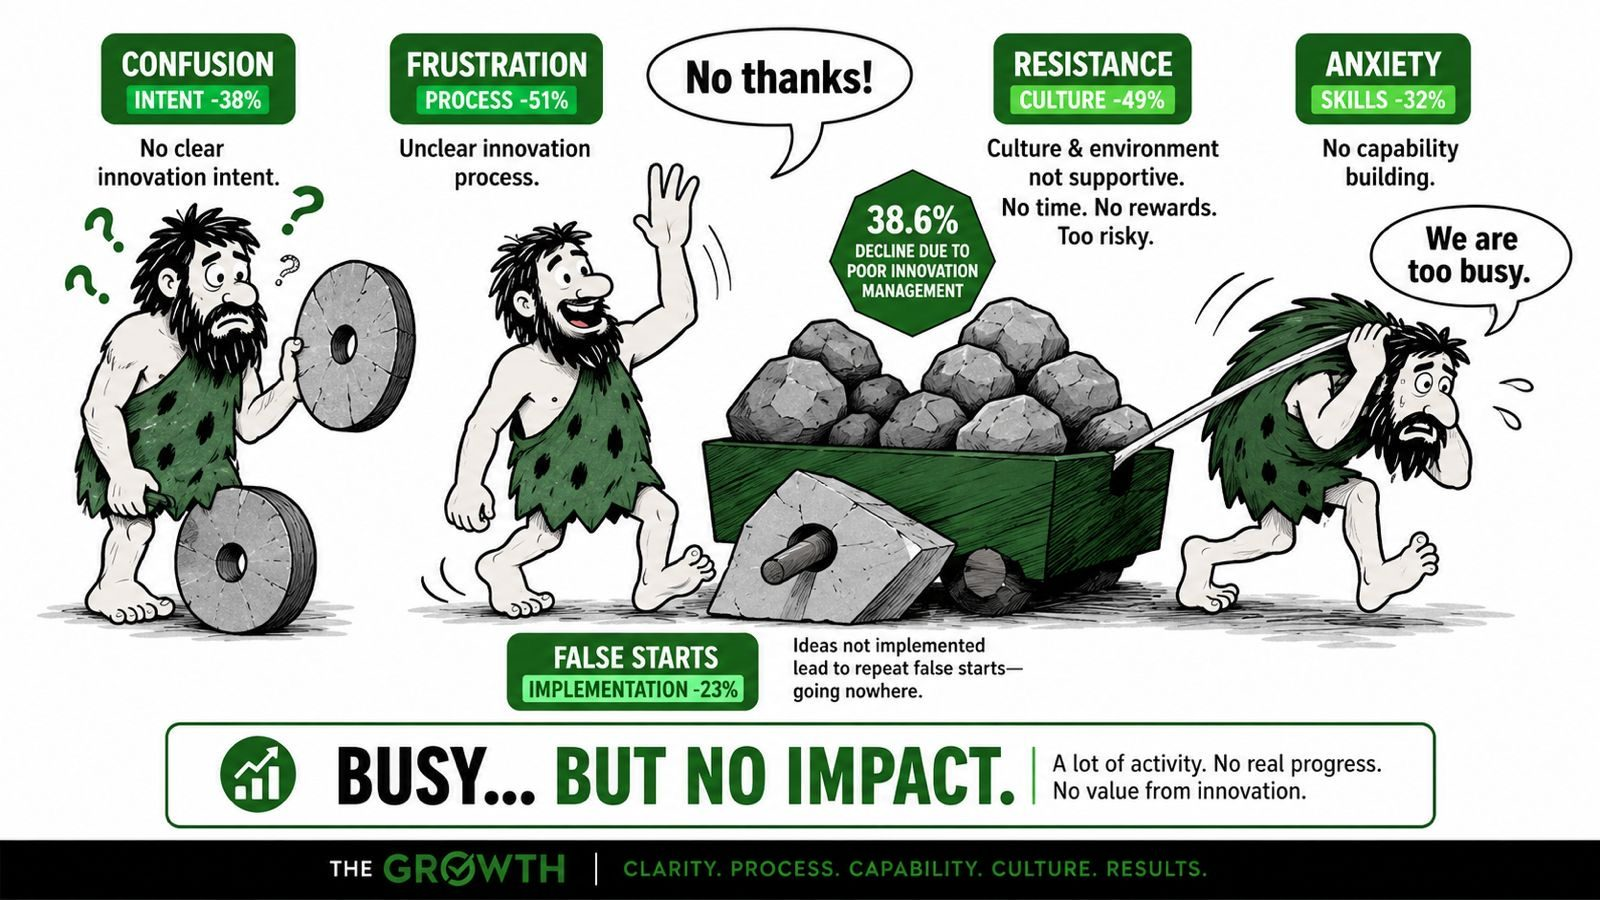
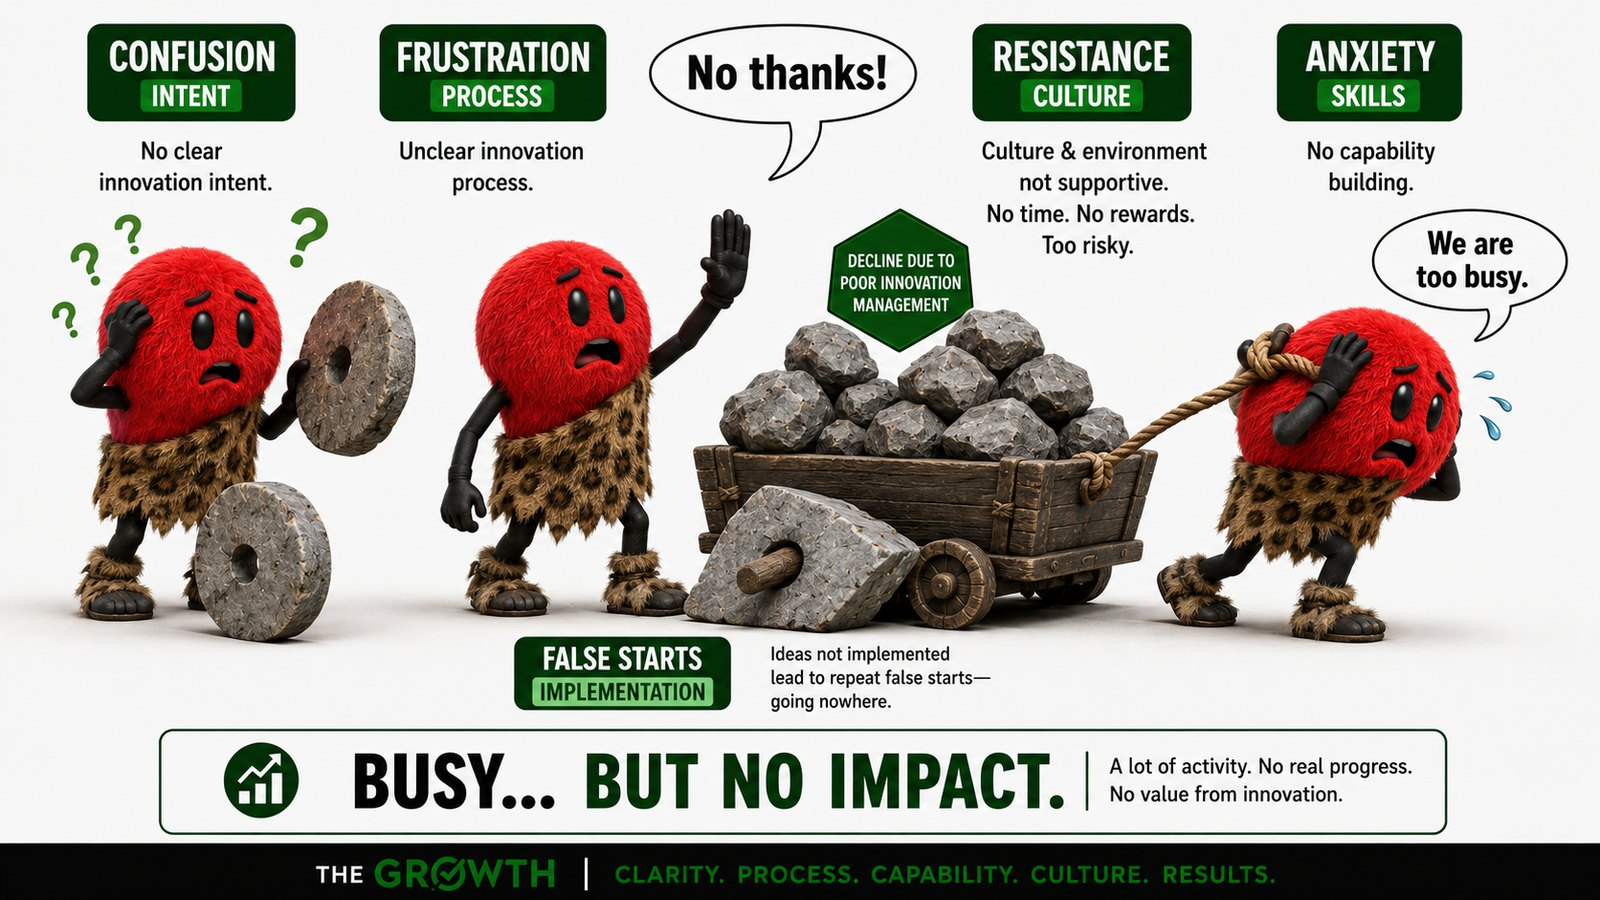
Assessment page: site-redesign shell, Oxy methodology graphic, local video player, always land on hero

diff --git a/public.html b/public.html
@@ -2,7 +2,7 @@
 <meta charset="UTF-8">
   <!-- Shared config: provides window.INNOPULSE_CONFIG (Supabase URL + publishable key) for parallel mirroring -->
   <script src="360-config.js"></script>
-<meta name="viewport" content="width=device-width, initial-scale=1.0"><link rel="preconnect" href="https://www.googletagmanager.com"><link rel="preconnect" href="https://www.youtube.com"><link rel="preconnect" href="https://i.ytimg.com">
+<meta name="viewport" content="width=device-width, initial-scale=1.0"><link rel="preconnect" href="https://www.googletagmanager.com">
 <link rel="preconnect" href="https://fonts.googleapis.com"><link rel="preconnect" href="https://fonts.gstatic.com" crossorigin=""><link href="https://fonts.googleapis.com/css2?family=Instrument+Sans:wght@400;500;600&amp;display=swap" rel="stylesheet"><title>Innovation Capability Assessment (InnoPulse) | The Growth System</title>
   <meta name="description" content="InnoPulse by The Growth System is a free innovation capability assessment measuring your organisation's innovation maturity across five pillars. Get a personalised report and benchmark your innovation performance.">
   <meta name="robots" content="index, follow, max-image-preview:large, max-snippet:-1, max-video-preview:-1">
@@ -18,7 +18,7 @@
   <meta name="twitter:card" content="summary_large_image">
   <meta name="twitter:title" content="Innovation Capability Assessment (InnoPulse) | The Growth System">
   <meta name="twitter:description" content="Measure your organisation's innovation maturity across five pillars with InnoPulse from The Growth System."><meta name="twitter:image" content="https://innopulse.thegrowthsystem.co.za/logo.png">
-  <meta name="theme-color" content="#1c2400"><link rel="icon" type="image/png" href="/logo.png"><link rel="apple-touch-icon" href="/logo.png"><link rel="manifest" href="/site.webmanifest">
+  <meta name="theme-color" content="#1c2400"><link rel="icon" type="image/png" href="logo.png"><link rel="apple-touch-icon" href="logo.png"><link rel="manifest" href="site.webmanifest">
   <script type="application/ld+json">
     {
       "@context": "https://schema.org",
@@ -79,7 +79,7 @@
       ]
     }
   </script>
-<link rel="preload" href="/styles.css" as="style"><link rel="preload" href="/logo.svg" as="image"><link rel="stylesheet" href="/styles.css">
+<link rel="preload" href="styles.css" as="style"><link rel="preload" href="logo.svg" as="image"><link rel="stylesheet" href="styles.css">
 <!-- Funnel analytics (optional): to enable GA4 event tracking, set CONFIG.analyticsId
      in the script below to your GA4 Measurement ID (e.g. "G-XXXXXXXXXX") and
      uncomment the two tags below. trackEvent() will then forward hero/intake/
@@ -89,8 +89,26 @@
 
       <link rel="stylesheet" href="assets/public-a11y.css">
       <script src="assets/public-a11y.js" defer=""></script>
+      <link href="https://fonts.googleapis.com/css2?family=Bricolage+Grotesque:opsz,wght@12..96,500;12..96,650;12..96,750;12..96,800&amp;family=IBM+Plex+Mono:wght@500;600&amp;family=Manrope:wght@400;500;600;700;800&amp;display=swap" rel="stylesheet">
+      <link rel="stylesheet" href="assets/site.css?v=20260702-signal">
+      <script src="assets/site.js?v=20260702-signal" defer=""></script>
     </head>
-<body class="route-public" data-route="public"><a class="assessment-skip" href="#main-content">Skip to assessment</a><main id="main-content"><div class="app" id="app"></div></main><div id="report" class="hide"></div><script>
+<body class="route-public site-redesign" data-route="public"><a class="assessment-skip" href="#main-content">Skip to assessment</a>
+      <div class="living-pulse-rail" aria-hidden="true">
+        <span class="rail-dot"></span>
+        <svg viewBox="0 0 20 220" preserveAspectRatio="none">
+          <path d="M10 0v66l-6 9 12 12-12 15 12 13-6 10v75"></path>
+        </svg>
+        <span class="rail-label">INNOVATION SIGNAL</span>
+      </div>
+    <header class="nav"><div class="row"><a class="brand" href="index.html"><img src="assets/logo.svg" alt="The Growth System logo" width="64" height="38"><span><b>Inno<i>Pulse</i></b><span>by The Growth System</span></span></a><ul class="menu" id="primary-menu"><li><a href="index.html">Home</a></li><li><a href="360.html">InnoPulse 360</a></li><li><a href="services.html">Services</a></li></ul><div class="navcta" id="nav-actions"><a class="btn btn-ghost btn-sm" href="public.html" aria-current="page">Start free check</a><a class="btn btn-navy btn-sm" href="book.html">Book a consultation</a></div>
+      <button class="menu-toggle" type="button" aria-expanded="false" aria-controls="primary-menu nav-actions">
+        <span>Menu</span>
+        <svg viewBox="0 0 24 18" aria-hidden="true" focusable="false">
+          <path d="M1 2h22M1 9h22M1 16h22"></path>
+        </svg>
+      </button>
+    </div></header><main id="main-content"><div class="app" id="app"></div></main><div id="report" class="hide"></div><script>
 const PILLARS = [
   {
     "id": "sii",
@@ -531,6 +549,17 @@ const totalQ = PILLARS.reduce((s,p)=>s+p.questions.length,0); // 62
    ============================================================ */
 let state = loadState();
 let SAVED = loadSaved();
+
+/* Always land visitors on the hero screen. Saved mid-flow progress
+   (intake/quiz/preview) is kept and offered as a "Continue" option
+   instead of auto-resuming past the landing page. Completed
+   assessments still open on the dashboard. */
+const RESUME = {
+  view: state.view,
+  inProgress: (state.view==='intake'||state.view==='quiz'||state.view==='preview') &&
+              (Object.keys(state.answers||{}).length>0 || (state.step||0)>0 || Object.keys(state.profile||{}).length>0)
+};
+if(state.view!=='dashboard' && state.view!=='hero'){ state.view='hero'; }
 
 function defaultState(){
   return {
@@ -1236,16 +1265,9 @@ function pillarIconHTML(pillarId){
 const $app = ()=>document.getElementById('app');
 
 function topbarHTML(){
-  return `<div class="topbar">
-    <div class="brandmark">
-      <div class="logo"><img src="/logo.svg" alt="The Growth System logo" width="30" height="30" decoding="async" style="display:block;width:30px;height:auto"></div>
-      <div>
-        <div class="name">${CONFIG.product} <span style="color:var(--lime2)">Check</span></div>
-        <div class="sub">by ${CONFIG.brand}</div>
-      </div>
-    </div>
-    <div class="toppill">${CONFIG.productFull}</div>
-  </div>`;
+  // The shared site-redesign header now renders above the app shell,
+  // so the per-screen topbar is retired.
+  return ``;
 }
 
 function render(){
@@ -1278,18 +1300,29 @@ function renderHero(){
       <span class="trust-item"><svg viewBox="0 0 24 24" fill="none" stroke="currentColor" stroke-width="2"><rect x="3" y="11" width="18" height="10" rx="2"/><path d="M7 11 V7 a5 5 0 0 1 10 0 v4"/></svg> Your answers stay private</span>
     </div>
     <div style="margin-top:18px">
-      <button class="btn btn-primary" data-begin>Begin My InnoPulse Check →</button>
+      <button class="btn btn-primary" data-begin>${RESUME.inProgress ? 'Continue where you left off →' : 'Begin My InnoPulse Check →'}</button>
+      ${RESUME.inProgress ? '<div style="margin-top:10px"><button class="btn-link" data-start-fresh style="background:none;border:none;color:var(--lime2);font-weight:700;cursor:pointer;text-decoration:underline">Start over from the beginning</button></div>' : ''}
     </div>
     <p class="small muted" style="margin-top:14px">${CONFIG.narrative}</p>
   </div>
 
-  <div class="footer"><img src="/logo.svg" alt="The Growth System logo" width="40" height="40" decoding="async" style="display:block;width:40px;height:auto;margin:0 auto 12px">${CONFIG.brand} · ${CONFIG.productFull}</div>
+  <div class="footer"><img src="logo.svg" alt="The Growth System logo" width="40" height="40" decoding="async" style="display:block;width:40px;height:auto;margin:0 auto 12px">${CONFIG.brand} · ${CONFIG.productFull}</div>
   ${videoModalHTML()}`;
 }
 function attachHero(){
   trackEvent('hero_view');
   document.querySelectorAll('[data-begin]').forEach(btn=>{
-    btn.addEventListener('click', ()=>{ trackEvent('intake_start'); state.view='intake'; save(); render(); });
+    btn.addEventListener('click', ()=>{
+      if(RESUME.inProgress){ trackEvent('assessment_resume'); state.view=RESUME.view; }
+      else { trackEvent('intake_start'); state.view='intake'; }
+      save(); render();
+    });
+  });
+  const fresh = document.querySelector('[data-start-fresh]');
+  if(fresh) fresh.addEventListener('click', ()=>{
+    RESUME.inProgress = false; RESUME.view = 'hero';
+    state = defaultState(); state.view='intake';
+    trackEvent('intake_start'); save(); render();
   });
   attachMethodology();
 }
@@ -1390,14 +1423,15 @@ function methodologySectionHTML(){
     <div style="max-width:640px;margin:0 auto">
       <div class="eyebrow">Before You Begin</div>
       <h2 class="hero-title" style="font-size:clamp(22px,3.2vw,30px)">Understand the Innovation System</h2>
-      <p class="tagline center" style="margin:0 auto 18px">Why innovation efforts stall — and the framework behind this assessment. Click to watch a 2-minute overview.</p>
+      <p class="tagline center" style="margin:0 auto 18px">Why innovation efforts stall — and the framework behind this assessment. Watch the 2-minute overview below.</p>
       <div class="meth-media">
-        <div class="meth-img-wrap" data-meth-open tabindex="0" role="button" aria-label="Watch the methodology overview video">
-          <img class="meth-img" loading="lazy" decoding="async" src="innovation-methodology.jpg" alt="Illustration of common innovation barriers — confusion, frustration, resistance, anxiety and false starts — leading to busy teams with no impact, alongside The Growth System's Clarity, Process, Capability, Culture, Results methodology.">
-          <span class="meth-video-icon" aria-hidden="true">${playIconSVG()}</span>
-        </div>
-        <div class="meth-watch-label" data-meth-open tabindex="0" role="button" aria-label="Watch the methodology overview video">
-          ${playIconSVG()} Watch Methodology Overview
+        <div class="meth-img-wrap" style="cursor:default">
+          <video class="meth-img" controls preload="metadata" playsinline data-meth-video
+            poster="innovation-methodology.jpg"
+            aria-label="Methodology overview video">
+            <source src="assets/methodology-overview.mp4" type="video/mp4">
+            Your browser can&rsquo;t play this video. <a href="assets/methodology-overview.mp4">Download it instead</a>.
+          </video>
         </div>
       </div>
       <div class="meth-journey">
@@ -1407,73 +1441,34 @@ function methodologySectionHTML(){
   </div>`;
 }
 function videoModalHTML(){
-  return `<div class="modal-bg hide" data-meth-modal-bg>
-    <div class="modal meth-modal" role="dialog" aria-modal="true" aria-label="Methodology overview video">
-      <button class="close" data-meth-close aria-label="Close video">×</button>
-      <div class="meth-video-frame" data-meth-video-frame></div>
-    </div>
-  </div>`;
-}
-let _methScrollY = 0;
-let _methLastFocus = null;
-function _methKeydown(e){
-  const bg = document.querySelector('[data-meth-modal-bg]');
-  if(!bg || bg.classList.contains('hide')) return;
-  if(e.key === 'Escape'){ e.preventDefault(); closeMethodologyVideo(); return; }
-  if(e.key === 'Tab'){
-    const focusable = bg.querySelectorAll('button, [href], input, select, textarea, [tabindex]:not([tabindex="-1"])');
-    if(!focusable.length) return;
-    const first = focusable[0], last = focusable[focusable.length-1];
-    if(e.shiftKey && document.activeElement === first){ e.preventDefault(); last.focus(); }
-    else if(!e.shiftKey && document.activeElement === last){ e.preventDefault(); first.focus(); }
-  }
-}
-function openMethodologyVideo(){
-  const bg = document.querySelector('[data-meth-modal-bg]');
-  const frame = document.querySelector('[data-meth-video-frame]');
-  const closeBtn = document.querySelector('[data-meth-close]');
-  if(!bg || !frame) return;
-  trackEvent('methodology_video_open');
-  _methScrollY = window.scrollY;
-  _methLastFocus = document.activeElement;
-  frame.innerHTML = `<iframe loading="lazy" src="https://www.youtube-nocookie.com/embed/6EYP4k5iNkQ?rel=0" title="InnoPulse Methodology Overview" allow="accelerometer; clipboard-write; encrypted-media; gyroscope; picture-in-picture" allowfullscreen></iframe>`;
-  bg.classList.remove('hide');
-  document.body.style.overflow = 'hidden';
-  document.addEventListener('keydown', _methKeydown);
-  if(closeBtn) closeBtn.focus();
-}
-function closeMethodologyVideo(){
-  const bg = document.querySelector('[data-meth-modal-bg]');
-  const frame = document.querySelector('[data-meth-video-frame]');
-  if(!bg) return;
-  bg.classList.add('hide');
-  if(frame) frame.innerHTML = '';
-  document.body.style.overflow = '';
-  document.removeEventListener('keydown', _methKeydown);
-  trackEvent('methodology_video_close');
-  // restore exactly where the visitor was, then nudge them toward the next step
-  window.scrollTo({top:_methScrollY, behavior:'auto'});
-  if(_methLastFocus && typeof _methLastFocus.focus === 'function') _methLastFocus.focus();
-  _methLastFocus = null;
-  const cta = document.querySelector('[data-begin]');
-  if(cta){
-    cta.classList.add('pulse');
-    setTimeout(()=>cta.classList.remove('pulse'), 1600);
-  }
+  // The methodology video now plays inline with a local <video> element —
+  // no YouTube, no modal.
+  return ``;
 }
 function attachMethodology(){
-  const openers = document.querySelectorAll('[data-meth-open]');
-  const bg = document.querySelector('[data-meth-modal-bg]');
-  const closeBtn = document.querySelector('[data-meth-close]');
-  if(!openers.length || !bg) return;
-  openers.forEach(el=>{
-    el.addEventListener('click', openMethodologyVideo);
-    el.addEventListener('keydown', (e)=>{
-      if(e.key === 'Enter' || e.key === ' '){ e.preventDefault(); openMethodologyVideo(); }
-    });
+  const video = document.querySelector('[data-meth-video]');
+  if(!video) return;
+  // Until the video file is uploaded (or if it ever fails to load),
+  // fall back to showing the methodology graphic as a plain image.
+  const swapToImage = ()=>{
+    if(video.dataset.swapped) return; video.dataset.swapped='1';
+    const img = document.createElement('img');
+    img.className='meth-img'; img.src=video.getAttribute('poster');
+    img.alt='Common innovation barriers leading to busy teams with no impact — The Growth System methodology.';
+    img.loading='lazy'; img.decoding='async';
+    video.replaceWith(img);
+  };
+  const srcEl = video.querySelector('source');
+  if(srcEl) srcEl.addEventListener('error', swapToImage);
+  video.addEventListener('error', swapToImage);
+  video.addEventListener('play', ()=>{
+    if(!video.dataset.trackedPlay){ video.dataset.trackedPlay = '1'; trackEvent('methodology_video_open'); }
   });
-  if(closeBtn) closeBtn.addEventListener('click', closeMethodologyVideo);
-  bg.addEventListener('click', (e)=>{ if(e.target === bg) closeMethodologyVideo(); });
+  video.addEventListener('ended', ()=>{
+    trackEvent('methodology_video_close');
+    const cta = document.querySelector('[data-begin]');
+    if(cta){ cta.classList.add('pulse'); setTimeout(()=>cta.classList.remove('pulse'), 1600); }
+  });
 }
 
 /* ---------- INTAKE (profile / demographics) ---------- */
@@ -1540,7 +1535,7 @@ function renderIntake(){
     <button class="btn btn-primary btn-block" data-start ${canStart?'':'disabled'}>Start the InnoPulse Check →</button>
     ${canStart ? '' : '<p class="small muted" style="margin-top:8px">Please complete the required fields above to continue.</p>'}
   </div>
-  <div class="footer"><img src="/logo.svg" alt="The Growth System logo" width="40" height="40" decoding="async" style="display:block;width:40px;height:auto;margin:0 auto 12px">${CONFIG.brand} · ${CONFIG.productFull}</div>`;
+  <div class="footer"><img src="logo.svg" alt="The Growth System logo" width="40" height="40" decoding="async" style="display:block;width:40px;height:auto;margin:0 auto 12px">${CONFIG.brand} · ${CONFIG.productFull}</div>`;
 }
 function attachIntake(){
   const btn = document.querySelector('[data-start]');
@@ -1612,7 +1607,7 @@ function renderQuiz(){
     </div>
     <div id="qBody"><div class="qcard">${body}</div></div>
   </div>
-  <div class="footer"><img src="/logo.svg" alt="The Growth System logo" width="40" height="40" decoding="async" style="display:block;width:40px;height:auto;margin:0 auto 12px">${CONFIG.brand} · ${CONFIG.productFull}</div>`;
+  <div class="footer"><img src="logo.svg" alt="The Growth System logo" width="40" height="40" decoding="async" style="display:block;width:40px;height:auto;margin:0 auto 12px">${CONFIG.brand} · ${CONFIG.productFull}</div>`;
 }
 
 function renderPillarIntro(pi){
@@ -1822,7 +1817,7 @@ function renderPreview(){
       <p class="small muted" style="margin-top:10px">Your details are stored only for this assessment record and to share your report with you — never sold or shared with third parties. Primary barrier detected: <strong>${db.pillar.barrier}</strong> (${db.pillar.short}).</p>
     </div>
   </div>
-  <div class="footer"><img src="/logo.svg" alt="The Growth System logo" width="40" height="40" decoding="async" style="display:block;width:40px;height:auto;margin:0 auto 12px">${CONFIG.brand} · ${CONFIG.productFull}</div>`;
+  <div class="footer"><img src="logo.svg" alt="The Growth System logo" width="40" height="40" decoding="async" style="display:block;width:40px;height:auto;margin:0 auto 12px">${CONFIG.brand} · ${CONFIG.productFull}</div>`;
 }
 
 function attachPreview(){
@@ -2079,7 +2074,7 @@ function renderDashboard(){
   <div class="section">
     <div class="eyebrow">InnoPulse Results — ${escapeHtml(rec.profile.company||'Your organisation')}</div>
     <h1 class="hero-title">${BANDS[band].label} band — Innovation Health ${fmtPct(overall)}</h1>
-    <p class="tagline">${OVERALL_TEXT[band]}</p><p class="tagline" style="margin-top:14px;font-size:14px;color:var(--muted)"><strong>This result is based on your individual perception. It is not a full organizational diagnosis.</strong></p><p style="margin-top:8px"><a class="btn btn-primary" href="/360.html">Want a complete company view? Request an InnoPulse 360 Assessment &rarr;</a></p>
+    <p class="tagline">${OVERALL_TEXT[band]}</p><p class="tagline" style="margin-top:14px;font-size:14px;color:var(--muted)"><strong>This result is based on your individual perception. It is not a full organizational diagnosis.</strong></p><p style="margin-top:8px"><a class="btn btn-primary" href="360.html">Want a complete company view? Request an InnoPulse 360 Assessment &rarr;</a></p>
   </div>
 
   <div class="section card" id="pulseCard">
@@ -2230,7 +2225,7 @@ function renderDashboard(){
     <p class="small muted" style="margin-top:10px">The respondent register automatically records every completed &amp; unlocked InnoPulse Check — ${registeredRecords().length} response${registeredRecords().length===1?'':'s'} captured so far.</p>
   </div>
 
-  <div class="footer"><img src="/logo.svg" alt="The Growth System logo" width="40" height="40" decoding="async" style="display:block;width:40px;height:auto;margin:0 auto 12px">${CONFIG.brand} · ${CONFIG.productFull} · <button class="btn-link" data-restart style="background:none;border:none;color:var(--lime2);font-weight:700;cursor:pointer;text-decoration:underline">Take another assessment</button></div>`;
+  <div class="footer"><img src="logo.svg" alt="The Growth System logo" width="40" height="40" decoding="async" style="display:block;width:40px;height:auto;margin:0 auto 12px">${CONFIG.brand} · ${CONFIG.productFull} · <button class="btn-link" data-restart style="background:none;border:none;color:var(--lime2);font-weight:700;cursor:pointer;text-decoration:underline">Take another assessment</button></div>`;
 }
 
 /* ---------- Comparison / Team mode ---------- */
@@ -2606,5 +2601,5 @@ window.addEventListener('load', render);
   if(document.querySelector("#app .topbar")) injectHomeBtn();
 })();
 </script>
-
+<footer class="foot" aria-label="Site footer"><div class="grid"><div><div class="fbrand"><img src="assets/logo.svg" alt="The Growth System logo" width="64" height="38"><b>InnoPulse</b></div><p class="blurb">Innovation capability assessment, strategy, ISO 56001 readiness, training and idea management. Serving South Africa from Pretoria &amp; Centurion.</p><div class="social"><a href="https://www.facebook.com/p/The-Growth-System-[phone redacted]/" aria-label="Facebook" rel="noopener"><svg viewBox="0 0 24 24" fill="currentColor"><path d="M22 12a10 [phone redacted].88v-6.99H7.9V12h2.54V9.8c0-[phone redacted].[phone redacted].2v2.46h-1.26c-[phone redacted].56V12h2.78l-.44 2.89h-2.34v6.99A10 [phone redacted] 12z"></path></svg></a><a href="https://www.linkedin.com/company/the-growth-system-pty-ltd/" aria-label="LinkedIn" rel="noopener"><svg viewBox="0 0 24 24" fill="currentColor"><path d="M4.98 3.5a2.[phone redacted] 0-5zM3 9h4v12H3zM10 9h3.8v1.7h.05c.[phone redacted] [phone redacted].1V21h-4v-5.4c0-1.29-.[phone redacted].[phone redacted].85V21h-4z"></path></svg></a></div></div><div><h4>Assess</h4><a href="public.html">Free Pulse Check</a><a href="360.html">InnoPulse 360</a><a href="innovation-capability.html">Innovation capability</a></div><div><h4>Build</h4><a href="innovation-strategy.html">Innovation strategy</a><a href="iso-56001-advisory.html">ISO 56001 advisory</a><a href="innovation-training.html">Innovation training</a><a href="services.html">All services</a></div><div><h4>Contact</h4><a href="mailto:[email redacted]">[email redacted]</a><a href="tel:[phone redacted]">[phone redacted]</a><a href="book.html">Book a consultation</a><a href="privacy.html">Privacy policy</a></div></div><div class="bar"><span>© The Growth System — Innovation that’s managed, not accidental.</span><span>Innovation360 Gold Partner · IMBB · ISO 56001</span></div></footer>
 </body></html>